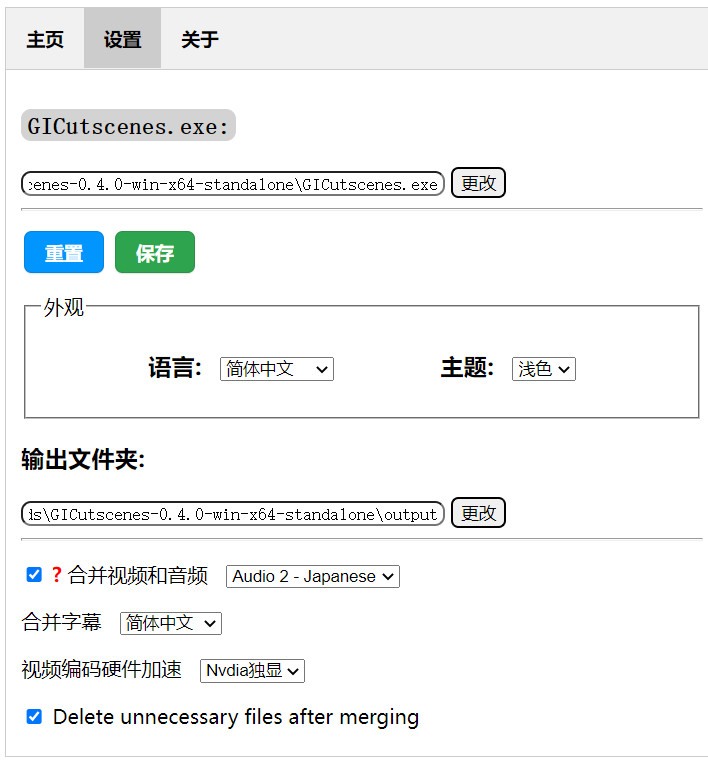
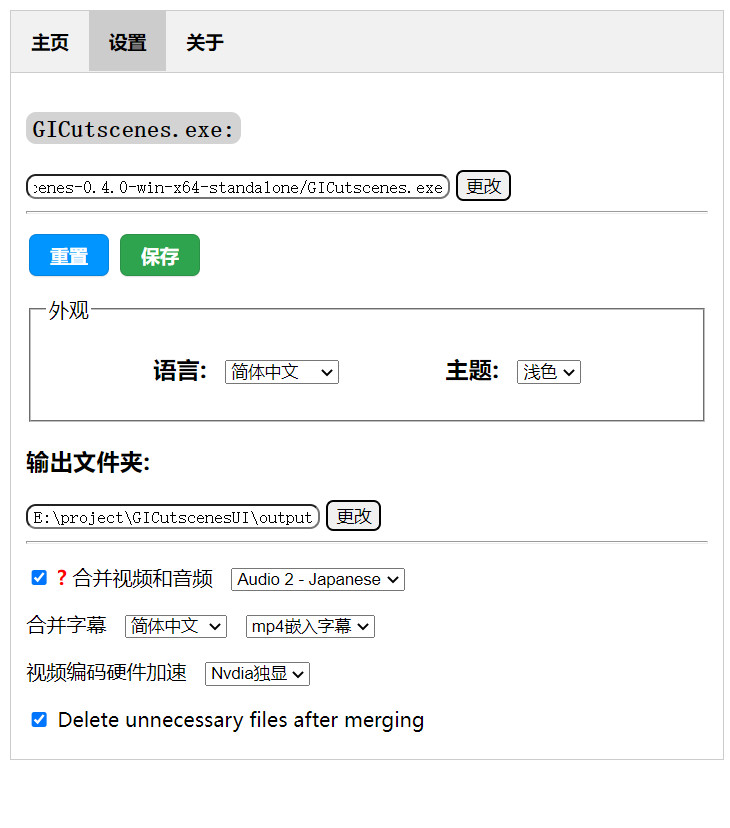
support subtitle merge type choosing

diff --git a/GICutscenesUI/web/main.html b/GICutscenesUI/web/main.html
@@ -118,12 +118,16 @@
 		<p>
 			<label for="merge_sub" translation="__merge_sub__">合并字幕</label>
 
-			<select class="settings_element" name="subtitle_type" style="margin-left:10px;" translation="__title:sub_index_promt__" title="sub index">
+			<select class="settings_element" name="subtitle" style="margin-left:10px;" translation="__title:sub_index_promt__" title="sub index">
 				<option value="NONE" selected>无</option>
 				<option value="CHS">简体中文</option>
 				<option value="CHT">繁體中文</option>
 				<option value="EN">English</option>
 				<option value="JP">Japanese</option>
+			</select>
+			<select class="settings_element" name="subtitle_type" style="margin-left:10px;" translation="__title:sub_type_promt__" title="sub type">
+				<option value="MKV">mkv内挂字幕</option>
+				<option value="MP4" selected>mp4嵌入字幕</option>
 			</select>
 		</p>
 		<p>

diff --git a/GICutscenesUI/main.py b/GICutscenesUI/main.py
@@ -1,3 +1,4 @@
+from dataclasses import replace
 from tkinter import Tk
 from tkinter.filedialog import askdirectory, askopenfilename, askopenfilenames
 import eel
@@ -10,7 +11,7 @@ import re
 import requests
 
 CONSOLE_DEBUG_MODE = False
-__version__ = '0.4.3.1'
+__version__ = '0.4.0.1'
 
 # ---- Required Functions ----
 
@@ -326,10 +327,11 @@ def start_work(files, args):
 					else:
 						send_message_to_ui_output("event", "run_merge")
 						audio_index = int(args['audio_index'])
+						subtitle = args['subtitle']
 						subtitle_type = args['subtitle_type']
 						hard_acc = args['hard_acc']
 						audio_file = os.path.join(OUTPUT_F , str(old_file_name) + "_" + str(audio_index) + ".wav")
-						output_file = os.path.join(OUTPUT_F, str(old_file_name) + ".mkv")
+						output_file = os.path.join(OUTPUT_F, str(old_file_name) + (".mkv" if subtitle_type == 'MKV' else ".mp4"))
 						send_message_to_ui_output("console", "\nStarting ffmpeg")
 						if os.path.exists(output_file):
 							send_message_to_ui_output("console", f'File {output_file} already exists.')
@@ -342,10 +344,17 @@ def start_work(files, args):
 						else:
 							arr = ['ffmpeg', '-hide_banner', '-i', new_file_name, '-i', audio_file]
 
-							if(subtitle_type != 'NONE'):
-								sub_file = os.path.join(os.path.dirname(OUTPUT_F) + '\\GenshinData\\Subtitle\\' + subtitle_type + '\\', old_file_name + '_' + subtitle_type + '.srt')
+							if(subtitle != 'NONE'):
+								sub_file = os.path.join(os.path.dirname(OUTPUT_F) + '\\GenshinData\\Subtitle\\' + subtitle + '\\', old_file_name + '_' + subtitle + '.srt')
 								if(os.path.exists(sub_file)):
-									arr += ['-i', sub_file, '-c:s', 'ass']
+									if(subtitle_type == 'MKV'):
+										arr += ['-i', sub_file, '-c:s', 'ass']
+										send_message_to_ui_output("console", "merge subtitle into mkv...")
+									else:
+										arr += ['-vf', 'subtitles=\''+sub_file.replace("\\", "\\\\").replace(":", "\\:")+'\'']
+										send_message_to_ui_output("console", "merge subtitle into mp4...")
+								else:
+									send_message_to_ui_output("console", "subtitle file not exists:" + sub_file)
 
 							if(hard_acc == 'nvdia_gpu'):
 								arr += ['-c:v', 'h264_nvenc']

diff --git a/README.md b/README.md
@@ -3,7 +3,14 @@
 
 > 本项目为[ToaHartor/GI-cutscenes](https://github.com/ToaHartor/GI-cutscenes)命令行工具的GUI版，fork自[SuperZombi/GICutscenesUI](https://github.com/SuperZombi/GICutscenesUI)，并做一定修改：
 > 1. 使用ffmpeg合并视频、音频时，可选Nvdia/Intel GPU加速(自测比原作纯CPU方案约快3-5倍);
-> 2. 合并视频、音频可选合并多语言字幕。
+> 2. 合并视频、音频可选合并多语言字幕；
+> 3. 可选择将字幕合并为内挂字幕(输出.mkv文件)或内嵌硬字幕(输出.mp4文件)。
+
+> PS: 内挂字幕可利用视频编辑软件将字幕流移除，需要播放器支持字幕渲染，如VLC(需手动选择字幕轨道)、Potplayer。
+> 内嵌字幕为将字母文字以类似水印的方式添加到视频的每帧画面，无法移除，对播放器无要求。
+
+## 合并后效果
+![capture](./github/images/capture.jpg)
 
 ## 使用方法
 
@@ -35,7 +42,7 @@ cd GenshinData
 git sparse-checkout set Subtitle
 ```
 
-所有文件下载完成后，目录结果类似下图：
+所有文件下载完成后，目录结构类似下图：
 ```
 |-- GenshinData
 |    |-- Subtitle
@@ -53,7 +60,7 @@ git sparse-checkout set Subtitle
 
 ![参数配置](./github/images/config.jpg)
 
-切换到`主页`选项卡，选择过场动画`.usm`文件(`<安装目录>\Genshin Impact\Genshin Impact Game\YuanShen_Data\StreamingAssets\VideoAssets\StandaloneWindows64\`)，点击`开始`即可。
+切换到`主页`选项卡，选择过场动画`.usm`文件(`<原神安装目录>\Genshin Impact\Genshin Impact Game\YuanShen_Data\StreamingAssets\VideoAssets\StandaloneWindows64\`)，点击`开始`即可。
 
 ## 视频合并硬件加速对比
 
